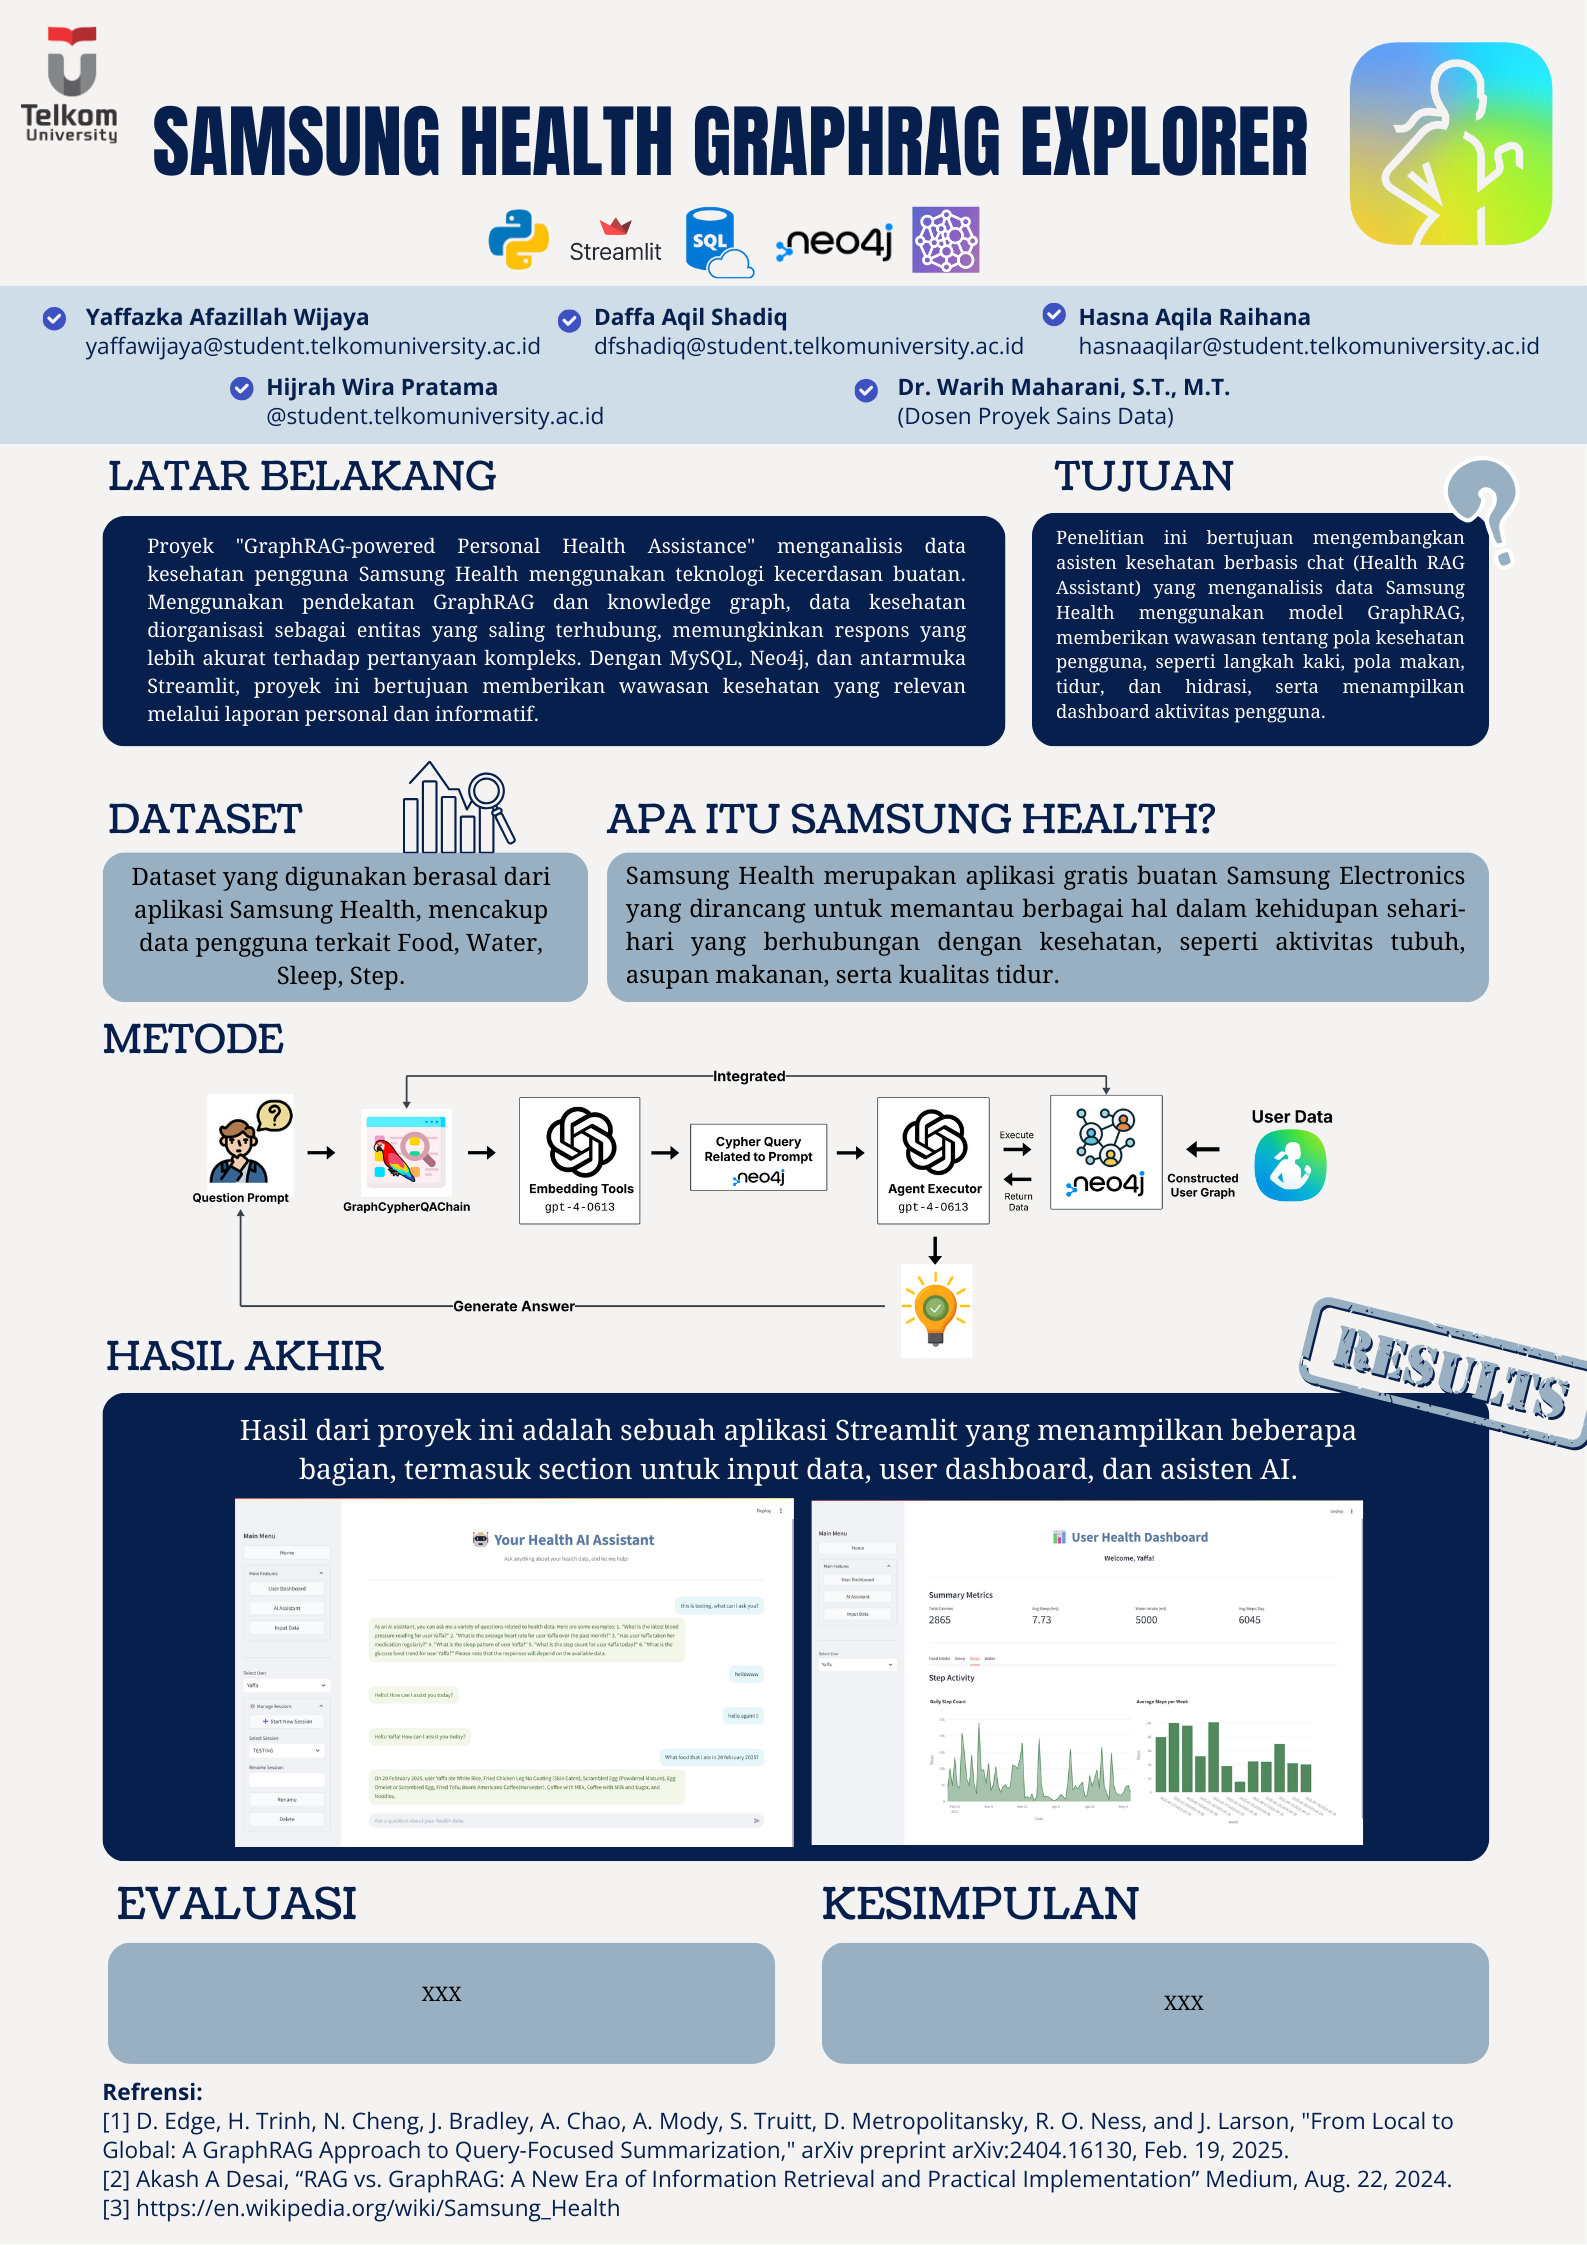
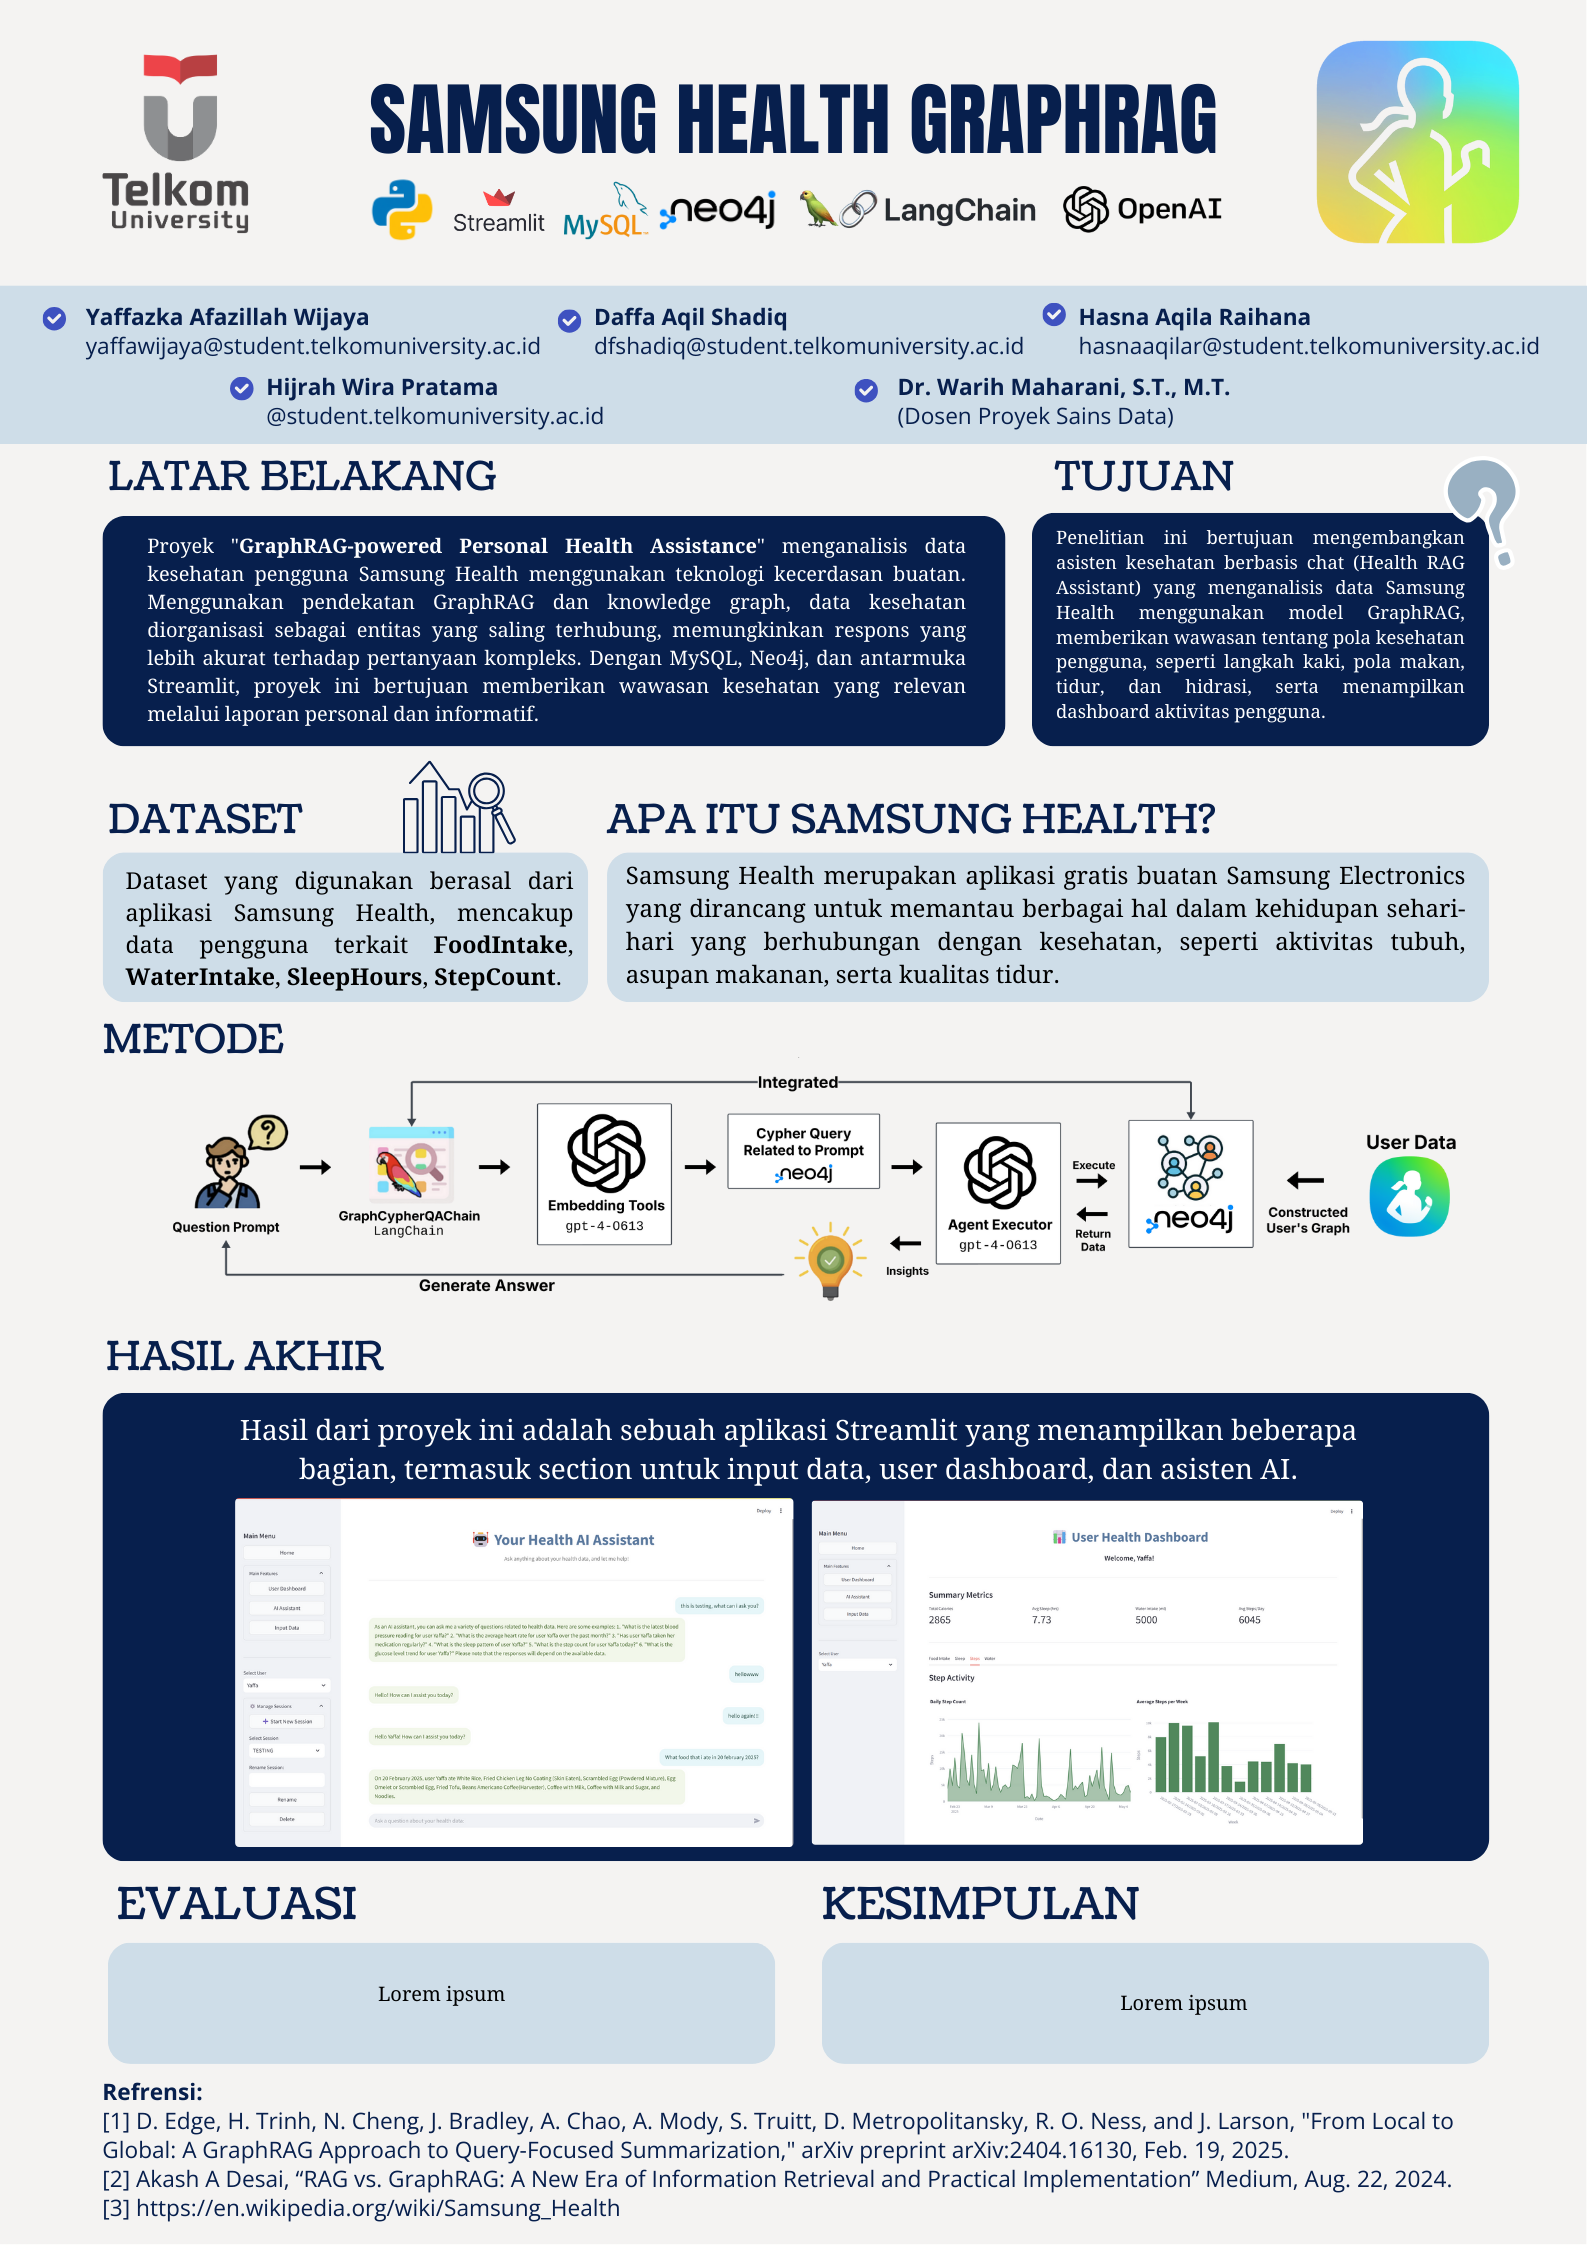
poster

diff --git a/README.md b/README.md
@@ -1,7 +1,12 @@
-# Samsung Health GraphRAG Explorer
+# Samsung Health GraphRAG
 
 <p align="center">
   <img src="https://raw.githubusercontent.com/yaffawijaya/samsung-health-graphrag/refs/heads/master/app/assets/sample_chatbot.gif" alt="Demo Application" width="100%"/>
+</p>
+
+## Poster
+<p align="center">
+  <img src="https://raw.githubusercontent.com/yaffawijaya/samsung-health-graphrag/refs/heads/master/app/assets/psd_poster.png" alt="Poster" width="80%"/>
 </p>
 
 ## Table of Contents
